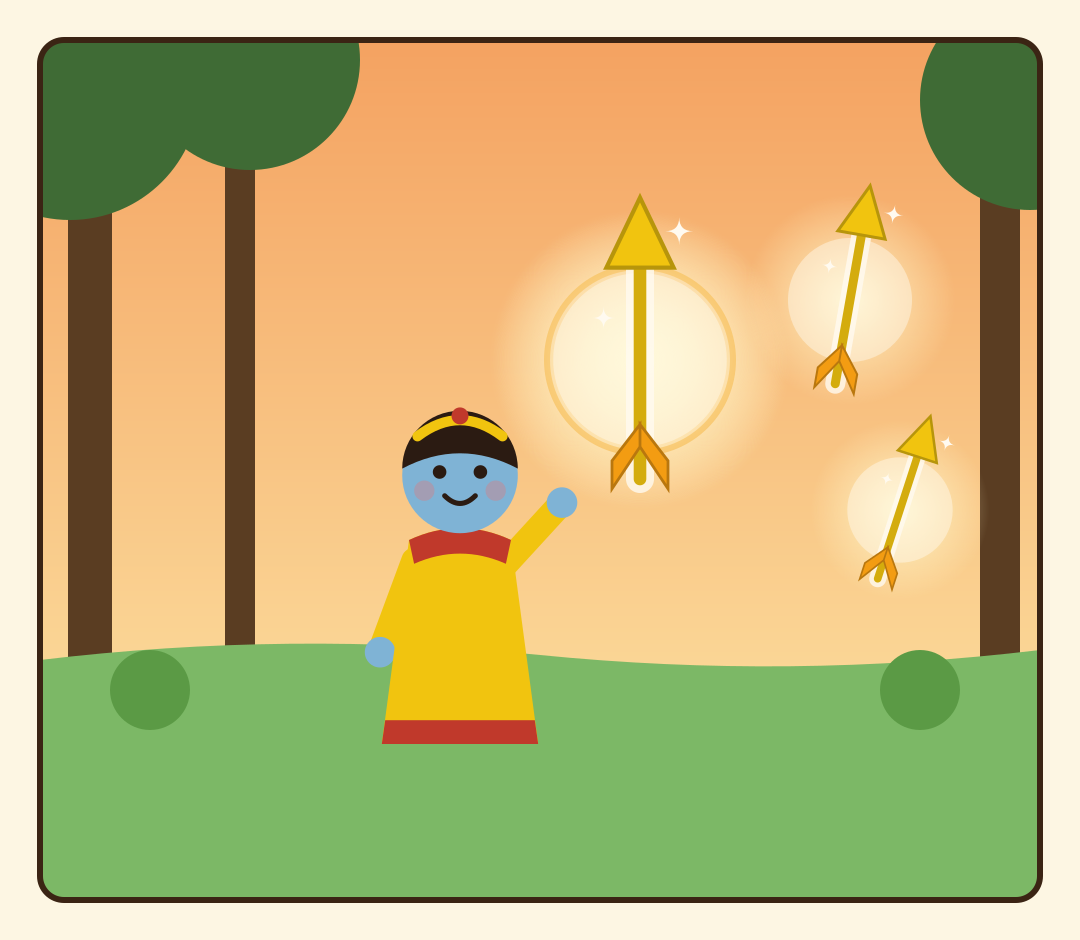
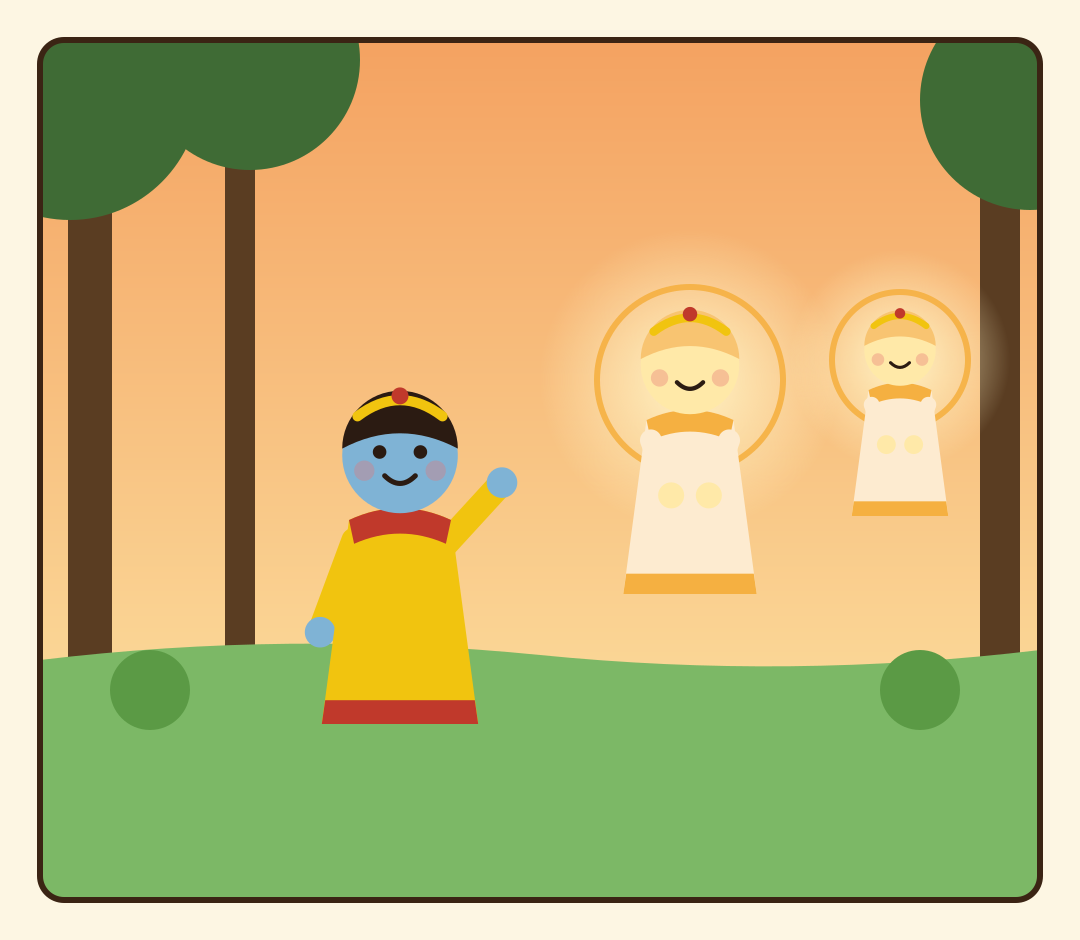
Episode 5: bring back the astra figures, now without eyes
Adds an eyes option to person() (default unchanged) and sets ASTRA to eyes=False.
Restores the original caption 3. astra() arrow stays in the kit for later use.
Episodes 1 to 4 rebuild unchanged.

Claude-Session: https://claude.ai/code/session_015fo28Q7rxPwJvHqSEZN8b3

Changed region(s): [[0.4583, 0.1851, 0.9472, 0.6479], [0.275, 0.4011, 0.55, 0.8021]]

diff --git a/tools/epic.py b/tools/epic.py
@@ -13,7 +13,7 @@ def T(x,y,lines,size=20,fill=INK,weight="400",anchor="start",lh=1.3):
     for i,l in enumerate(lines): o+=f'<tspan x="{x}" dy="{0 if i==0 else size*lh}">{l}</tspan>'
     return o+'</text>'
 
-def person(x,y,s=1,robe="#1f618d",skin="#c68642",trim="#f1c40f",hair="#2b1b12",crown=False,beard=None,beardlen=30,mood="smile",topknot=False,female=False,drape=None,arms="down",tiara=False,flip=False):
+def person(x,y,s=1,robe="#1f618d",skin="#c68642",trim="#f1c40f",hair="#2b1b12",crown=False,beard=None,beardlen=30,mood="smile",topknot=False,female=False,drape=None,arms="down",tiara=False,flip=False,eyes=True):
     g=f'<g transform="translate({x},{y}) scale({-s if flip else s},{s})">'
     def arm(x1,y1,x2,y2): return f'<path d="M{x1},{y1} L{x2},{y2}" stroke="{robe}" stroke-width="15" stroke-linecap="round"/><circle cx="{x2}" cy="{y2}" r="9" fill="{skin}"/>'
     if female: g+=f'<path d="M-36,-44 Q-46,10 -28,26 L28,26 Q46,10 36,-44 Z" fill="{hair}"/>'
@@ -33,7 +33,7 @@ def person(x,y,s=1,robe="#1f618d",skin="#c68642",trim="#f1c40f",hair="#2b1b12",c
     if tiara: g+='<path d="M-25,-61 Q0,-80 25,-61" stroke="#f1c40f" stroke-width="6" fill="none" stroke-linecap="round"/><circle cx="0" cy="-73" r="5" fill="#c0392b"/>'
     if female: g+='<circle cx="0" cy="-53" r="3" fill="#c0392b"/><circle cx="-34" cy="-30" r="4" fill="#f1c40f"/><circle cx="34" cy="-30" r="4" fill="#f1c40f"/>'
     g+='<circle cx="-21" cy="-29" r="6" fill="#e57373" opacity="0.35"/><circle cx="21" cy="-29" r="6" fill="#e57373" opacity="0.35"/>'
-    g+='<circle cx="-12" cy="-40" r="4" fill="#2b1b12"/><circle cx="12" cy="-40" r="4" fill="#2b1b12"/>'
+    if eyes: g+='<circle cx="-12" cy="-40" r="4" fill="#2b1b12"/><circle cx="12" cy="-40" r="4" fill="#2b1b12"/>'
     if mood=="sad": g+='<path d="M-9,-20 Q0,-28 9,-20" stroke="#2b1b12" stroke-width="3" fill="none" stroke-linecap="round"/><path d="M-19,-48 L-7,-53 M7,-53 L19,-48" stroke="#2b1b12" stroke-width="3" stroke-linecap="round"/>'
     else: g+='<path d="M-9,-26 Q0,-17 9,-26" stroke="#2b1b12" stroke-width="3" fill="none" stroke-linecap="round"/>'
     return g+'</g>'
@@ -188,6 +188,8 @@ def bg_riverbank():
     return g
 
 # ---- Added in Episode 5 ----
+# A divine astra appearing in its shining form, with no eyes so it reads as divine light. Draw it with arms="hold" (palms joined) over halo().
+ASTRA=dict(robe="#fdebd0",skin="#ffe9a8",trim="#f5b041",hair="#f8c471",tiara=True,eyes=False)
 def halo(x,y,r=120,c="#fff6c9"):
     """A soft circle of holy light behind a figure or a divine object."""
     return f'<circle cx="{x}" cy="{y}" r="{r}" fill="url(#glow)"/><circle cx="{x}" cy="{y}" r="{r*0.62:.0f}" fill="none" stroke="#f5b041" stroke-width="6" opacity="0.9"/>'

diff --git a/episodes/005/scenes.py b/episodes/005/scenes.py
@@ -14,14 +14,14 @@ def s2():
     return g
 def s3():
     g=bg_dawn_forest(sun=False)
-    for ax,ay,an in ((520,330,-14),(690,270,0),(860,330,14)): g+=astra(ax,ay,1.25,an)
+    for ax,ay in ((500,330),(680,270),(850,330)): g+=halo(ax,ay-30,120)+person(ax,ay,1.3,arms="hold",**ASTRA)
     g+=person(200,500,1.6,**RAMA)
     return g
 def s4():
     g=bg_dawn_forest(sun=False)
-    g+=halo(600,320,150)+astra(600,320,1.4,0)
-    g+=astra(810,260,1.0,10)+astra(860,470,0.85,18)
-    g+=person(420,500,1.7,arms="raise",**RAMA)
+    g+=halo(650,340,150)+person(650,380,1.45,arms="hold",**ASTRA)
+    g+=halo(860,320,110)+person(860,350,1.05,arms="hold",**ASTRA)
+    g+=person(360,480,1.7,arms="raise",**RAMA)
     return g
 def s5():
     g=bg_dawn_forest()
